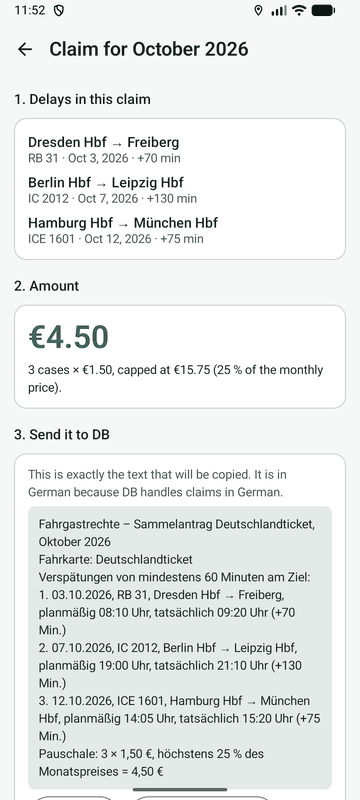
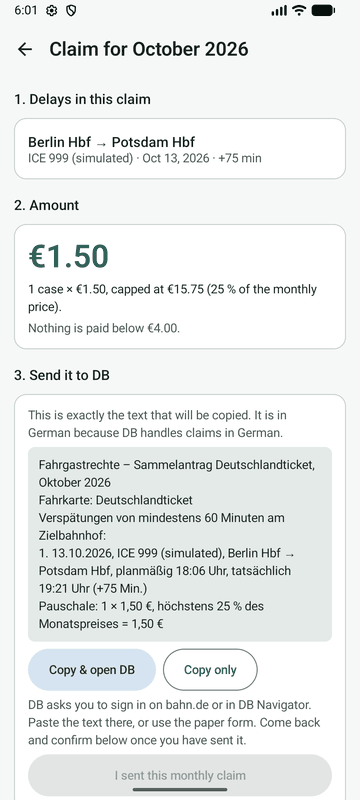
Cancel the delay notification when its claim action is used; refresh screenshots and plan

diff --git a/app/src/main/java/app/delayd/MainActivity.kt b/app/src/main/java/app/delayd/MainActivity.kt
@@ -19,7 +19,11 @@ class MainActivity : ComponentActivity() {
     /** Trip (and whether to open its claim) from a delay notification, consumed once by the UI. */
     private var deepLink by mutableStateOf<DeepLink?>(null)
 
-    private fun linkOf(i: Intent) = i.getStringExtra(TrackingService.EXTRA_TRIP_ID)?.let { DeepLink(it, i.getBooleanExtra(Notifier.EXTRA_CLAIM, false)) }
+    private fun linkOf(i: Intent) = i.getStringExtra(TrackingService.EXTRA_TRIP_ID)?.let {
+        val claim = i.getBooleanExtra(Notifier.EXTRA_CLAIM, false)
+        if (claim) Notifier.cancel(this, it) // notification actions do not auto-cancel
+        DeepLink(it, claim)
+    }
 
     override fun onCreate(savedInstanceState: Bundle?) {
         super.onCreate(savedInstanceState)

diff --git a/docs/design/german-first.md b/docs/design/german-first.md
@@ -24,3 +24,6 @@ Evaluated, not done: asking the ticket type in onboarding (extra step, more copy
 
 ## 4. Dependencies
 None.
+
+## 5. Verification (emulator API 36, debug build)
+DE/EN/System switching (in-app radio and `cmd locale`), tile (add + click turns the location service on through the activity, second click stops it), delay notification actions ("Jetzt beantragen" opens Home > Trip > month claim and clears the notification; "Nicht relevant" sets "Verworfen"), branding line on onboarding page 1 and Settings, German dates with weekday and `1,50 €`. Fare memory and 200 % font scale on the new rows are covered by JVM tests only / not re-checked. Refreshed screenshots: home (de), claim month (de/en), settings (de/en), onboarding 1 (de/en); the others are unchanged in layout but may show older wording.
